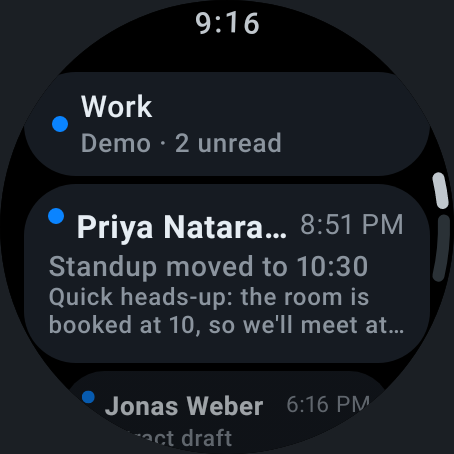
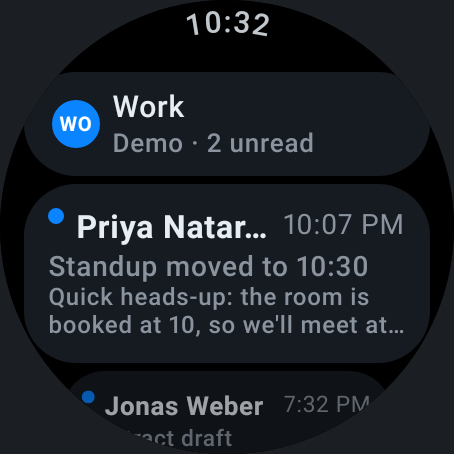
docs: describe replies, swipe actions, views, and privacy on the watch
Update the README feature table, getting-started steps, screenshots, and
roadmap, and RFC 0010's protocol, watch app, privacy, and open questions.

Claude-Session: https://claude.ai/code/session_019FG2bvKoSv16cscKJj6KsV

diff --git a/README.md b/README.md
@@ -6,7 +6,7 @@
 
 **A Wear OS companion for Thunderbird for Android.**
 
-ThunderWren brings your Thunderbird inbox to smartwatches running Wear OS 3+. Thunderbird on your phone keeps doing the mail syncing. The watch shows your inboxes, lets you triage messages with a tap, and hands off to the phone for reading in full or replying. The watch never stores your passwords or connects to a mail server.
+ThunderWren brings your Thunderbird inbox to smartwatches running Wear OS 3+. Thunderbird on your phone keeps doing the mail syncing. The watch shows your inboxes, lets you triage messages with a tap or a swipe, and sends quick replies through the phone. For anything longer it hands off to the phone. The watch never stores your passwords or connects to a mail server.
 
 It lives in a fork of the Thunderbird for Android repository. The design is proposed upstream in [RFC 0010](docs/engineering/rfcs/0010-wear-os-companion.md).
 
@@ -16,9 +16,14 @@ It lives in a fork of the Thunderbird for Android repository. The design is prop
 > **Just curious?** You don't need a phone. Install only the watch app and tap **Try the demo**.
 
 <p align="center">
-  <img src="images/thunderwren/screenshots/2-inbox-all.png" width="200" alt="Inbox showing All inboxes with unread messages">
-  <img src="images/thunderwren/screenshots/3-mailbox-picker.png" width="200" alt="Mailbox picker with All inboxes, Work, and Personal">
-  <img src="images/thunderwren/screenshots/5-message.png" width="200" alt="A message opened on the watch">
+  <img src="images/thunderwren/screenshots/2-inbox-all.png" width="200" alt="All inboxes, with account monograms on each message">
+  <img src="images/thunderwren/screenshots/9-swipe.png" width="200" alt="A message swiped to the left, showing Delete and Archive">
+  <img src="images/thunderwren/screenshots/5-message.png" width="200" alt="A message opened on the watch, with its account">
+</p>
+<p align="center">
+  <img src="images/thunderwren/screenshots/7-reply.png" width="200" alt="Reply screen with Speak or type and ready-made replies">
+  <img src="images/thunderwren/screenshots/8-reply-review.png" width="200" alt="Reviewing a reply before sending it">
+  <img src="images/thunderwren/screenshots/6-inbox-starred.png" width="200" alt="The Starred view of all inboxes">
 </p>
 <p align="center"><em>The demo mailbox, rendered from the real watch UI.</em></p>
 
@@ -29,17 +34,21 @@ It lives in a fork of the Thunderbird for Android repository. The design is prop
 | Area | Status | Notes |
 |---|---|---|
 | Inbox on the watch | ✅ | The newest 25 messages with sender, subject, preview, date, and unread/starred state. |
-| Unified inbox or one account | ✅ | Tap the mailbox name at the top of the inbox to switch between "All inboxes" and each account. The watch remembers your choice. |
+| All inboxes, Unread, Starred, or one account | ✅ | Tap the mailbox name at the top of the inbox to switch. "Unread" and "Starred" filter all inboxes. The watch remembers your choice. |
+| Account monograms | ✅ | In mixed views, each message shows its account's monogram and color, as in Thunderbird. |
+| Swipe to archive or delete | ✅ | Swipe a message to the left. A full swipe archives it. Screen readers get the same actions. |
 | Mark read/unread, star, archive, delete | ✅ | Sent to the phone, which applies them like the phone app does. Opening a message marks it as read. |
-| Open on phone | ✅ | Opens the message in Thunderbird on the phone, for reading in full and replying. |
-| Unread Tile and complication | ✅ | Show the unified inbox's unread count and update when the phone publishes new data. |
+| Mark all as read | ✅ | At the end of any mailbox, after a confirmation. |
+| Reply from the watch | ✅ | Speak, type, or pick a ready-made reply, review it, and send. Thunderbird on the phone sends it from the right account, with your signature and quoting settings, and marks the message as answered. Encrypted messages are answered on the phone. |
+| Open on phone | ✅ | Opens the message in Thunderbird on the phone, for reading in full. |
+| Tile | ✅ | Shows the unread count and the newest unread messages. Tap one to open it. |
+| Complication | ✅ | Shows the unread count on your watch face. |
+| Privacy | ✅ | The Tile and complication follow Thunderbird's **Lock Screen Notifications** setting (senders and subjects, senders only, count only, or nothing). The default is count only. |
 | Encrypted messages | ✅ | Shown as encrypted, with a prompt to read them on the phone. |
 | Works briefly offline | ✅ | The watch keeps the last data the phone sent. |
-| Demo mailbox | ✅ | **Try the demo** on the watch shows a sample mailbox with working actions, no phone needed. Real data from Thunderbird on the phone replaces it automatically. |
-| Phone notifications on the watch | ✅ Improved | Thunderbird's phone notifications now offer **Star** on the watch, and their actions follow your notification action order. |
-| Replying from the watch | ⬜ Not started | Use "Open on phone" for now. |
+| Demo mailbox | ✅ | **Try the demo** on the watch shows a sample mailbox where everything above works, no phone needed. Real data from Thunderbird on the phone replaces it automatically. |
+| Phone notifications on the watch | ✅ Improved | Thunderbird's notifications offer **Reply** (voice, keyboard, or ready-made replies, sent by the phone) and **Star** on the watch, and their actions follow your notification action order. |
 | Folders other than the inbox | ⬜ Not started | |
-| Watch notifications | ⬜ Not started | Thunderbird's phone notifications are still bridged to the watch by Wear OS as usual. |
 | Standalone mode (no phone) | ⬜ Not planned yet | See the RFC for why the phone does the syncing. |
 
 ---
@@ -50,15 +59,16 @@ It lives in a fork of the Thunderbird for Android repository. The design is prop
  Phone: Thunderbird (full/Play build)             Watch: ThunderWren
  ┌──────────────────────────────────┐             ┌──────────────────────────┐
  │ :feature:wear:companion:internal │─ mailboxes ▶│ Inbox, mailbox picker,   │
- │  • publishes each inbox          │─ inboxes ──▶│ message screen, Tile,    │
- │  • applies watch actions         │◀─ requests ─│ complication             │
+ │  • publishes each mailbox        │─ inboxes ──▶│ message and reply        │
+ │  • applies watch actions         │◀─ requests ─│ screens, Tile,           │
+ │  • sends replies                 │             │ complication             │
  │  • "open on phone" entry point   │             │                          │
  └──────────────────────────────────┘             └──────────────────────────┘
                  both use :feature:wear:companion:api (protocol)
 ```
 
 * **`:feature:wear:companion:api`**: the shared protocol, covering Data Layer paths, message and mailbox models, and the JSON codec.
-* **`:feature:wear:companion:internal`**: the phone side, included in Thunderbird's `full` (Play) flavor. It publishes the mailbox list and one inbox snapshot per mailbox over the Wearable Data Layer. It also applies actions through `MessagingController` and opens messages on request.
+* **`:feature:wear:companion:internal`**: the phone side, included in Thunderbird's `full` (Play) flavor. It publishes the mailbox list and one snapshot per mailbox over the Wearable Data Layer. It also applies actions through `MessagingController`, sends replies with `QuickReplySender` (in `legacy:core`, shared with the notification Reply action), and opens messages on request.
 * **`:feature:wear:companion:noop`**: included in the `foss` (F-Droid) flavor instead, because the Data Layer needs Google Play Services.
 * **`:app-thunderwren`**: the Wear OS app. It depends only on the protocol module.
 
@@ -77,7 +87,7 @@ It lives in a fork of the Thunderbird for Android repository. The design is prop
 
 1. Create and start a *Wear OS Small Round* emulator (API 30 or newer) in Device Manager.
 2. Select the **`app-thunderwren`** run configuration and run it on the watch.
-3. Tap **Try the demo**. You get "All inboxes" plus a Work and a Personal account with sample messages. Open, star, mark unread, archive, and delete them, switch mailboxes, and add the Tile and complication. Everything stays on the watch.
+3. Tap **Try the demo**. You get "All inboxes", "Unread", "Starred", and a Work and a Personal account with sample messages. Open, star, reply to, swipe away, and mark them as read, switch mailboxes, and add the Tile and complication. Nothing is sent anywhere.
 
 **Exit demo** at the bottom of the inbox returns to the "Connect your phone" screen. If Thunderbird on a paired phone connects, its real inbox replaces the demo automatically.
 
@@ -110,7 +120,7 @@ Or from the command line, with both emulators running:
 
 ### Try the Tile and complication
 
-* **Tile**: swipe to the tiles carousel on the watch and add **"Unread Emails"**.
+* **Tile**: swipe to the tiles carousel on the watch and add **"Unread Emails"**. To see senders and subjects on it with real mail, set **Settings → General settings → Notifications → Lock Screen Notifications** in Thunderbird on the phone to show them. The demo always shows them.
 * **Complication**: long-press the watch face → *Customize* → pick a complication slot → **ThunderWren / Unread Count**.
 
 ### Troubleshooting
@@ -130,9 +140,10 @@ Or from the command line, with both emulators running:
 - [x] Demo mailbox for trying the watch app without a phone.
 - [x] Star and custom action order for Thunderbird's phone notifications on the watch.
 - [x] Translatable strings, screen reader labels, and a CI build job.
+- [x] Reply from the watch (voice, keyboard, or ready-made replies, sent by the phone), also from notifications.
+- [x] Respect Thunderbird's notification privacy settings on the Tile and complication.
+- [x] Swipe to archive or delete, Unread and Starred views, mark all as read, account monograms, and a richer Tile.
 - [ ] Verify on a real phone and watch, then fix what that turns up.
-- [ ] Reply from the watch (voice or canned replies, sent by the phone).
-- [ ] Respect Thunderbird's notification privacy settings in what the watch shows.
 - [ ] Present on [thunderbird/thunderbird-android#6969](https://github.com/thunderbird/thunderbird-android/issues/6969), the open Wear OS request.
 
 For architectural guidelines, see [`docs/architecture/`](docs/architecture/README.md) and [`AGENTS.md`](AGENTS.md). The original upstream README is preserved in [`README.upstream.md`](README.upstream.md).

diff --git a/docs/engineering/rfcs/0010-wear-os-companion.md b/docs/engineering/rfcs/0010-wear-os-companion.md
@@ -7,8 +7,8 @@
 
 Add a Wear OS companion to Thunderbird for Android. The phone app keeps doing all mail syncing. It publishes a
 compact snapshot of the unified inbox to a paired watch over the Wearable Data Layer. The watch app shows that
-snapshot, sends simple actions back (mark read or unread, star, archive, delete), and can open a message on the phone
-for full reading and replying.
+snapshot, sends simple actions back (mark read or unread, star, archive, delete, mark all as read), sends short
+replies that the phone writes and sends, and can open a message on the phone for full reading.
 
 The watch never stores account credentials and never talks to a mail server.
 
@@ -48,27 +48,39 @@ can ignore data it doesn't understand.
 - **Capabilities**: The phone advertises `thunderbird_wear_companion` and the watch advertises `thunderwren_watch`. Each
   side uses the other's capability to find a peer and to skip work when none is connected.
 - **Mailboxes**: This is a `DataItem` at `/thunderwren/v1/mailboxes` holding `WearMailboxList`. It lists the unified
-  inbox first, then each account's inbox, with the account name, email address, color, and unread count.
+  inbox and its "Unread" and "Starred" views first, then each account's inbox, with the account name, email address,
+  color, monogram, and unread count. It also carries the glance visibility (see Privacy below).
 - **Inbox snapshots**: There is one `DataItem` per mailbox, at `/thunderwren/v1/inbox/<mailbox>`, holding
-  `WearInboxSnapshot`. `<mailbox>` is `unified` or the account UUID. Each snapshot contains the newest 25 messages of
-  that inbox. Each message has an ID, sender, subject, preview, date, read/starred flags, attachment and encryption
-  indicators, and the account color. Separate items keep each one well under the Data Layer's 100 KB limit. They also
-  make switching mailboxes on the watch instant, even while it is disconnected.
+  `WearInboxSnapshot`. `<mailbox>` is `unified`, `unread`, `starred`, or the account UUID. Each snapshot contains the
+  newest 25 messages of that mailbox. Each message has an ID, sender, subject, preview, date, read/starred flags,
+  attachment and encryption indicators, and its account's ID and color. Separate items keep each one well under the
+  Data Layer's 100 KB limit. They also make switching mailboxes on the watch instant, even while it is disconnected.
 - **Publishing**: The phone republishes (debounced) when the message list changes and a watch is paired. It deletes the
   items of accounts that no longer exist. The Data Layer keeps the last published items on the watch.
 - **Requests**: The watch sends `MessageClient.sendRequest` to `/thunderwren/v1/request` with a `WearRequest`:
-  `Refresh`, or `PerformAction(messageId, action)`. The phone answers with a `WearResponse`. An action updates the
-  local store through `MessagingController`, and the resulting message-list change republishes the snapshots.
+  `Refresh`, `PerformAction(messageId, action)`, `MarkAllRead(mailboxId)`, or `Reply(messageId, text)`. The phone
+  answers with a `WearResponse`. Actions update the local store through `MessagingController`, and the resulting
+  message-list change republishes the snapshots. A phone that doesn't know a request answers `UNSUPPORTED_REQUEST`,
+  which the watch explains as "update Thunderbird on your phone".
+- **Replies**: `QuickReplySender` in `legacy:core` builds the reply the way the compose screen would: to the sender or
+  Reply-To address, from the identity the message was sent to, with the account's quoting, signature, Bcc, and read
+  receipt settings, threaded with `In-Reply-To` and `References`. It puts the reply in the Outbox and marks the
+  original as answered. Replies are plain text. Encrypted messages are refused, because the reply would go out
+  unencrypted; the watch offers "open on phone" for them instead. Nothing is sent without a review step on the watch.
 - **Message IDs**: `MessageReference.toIdentityString()` is used as-is. The watch treats it as opaque.
 - **Open on phone**: The watch calls `RemoteActivityHelper` with `thunderwren://open?message=<id>`. A small exported
   trampoline activity in `internal` validates the ID and opens the message in the phone app.
 
 ### Watch app
 
-- Uses Compose for Wear OS Material 3. It has an inbox, a mailbox picker (the unified inbox or a single account), a
-  message screen with actions, and an "open on phone" action. The selected mailbox is remembered on the watch.
-- The Tile and the complication show the unified inbox's unread count from the cached mailbox list. A `WearableListenerService` on the
-  watch refreshes them when the snapshot changes, even when the app isn't open.
+- Uses Compose for Wear OS Material 3. It has an inbox, a mailbox picker (the unified inbox, "Unread", "Starred", or a
+  single account), a message screen with actions, a reply screen (voice, keyboard, or ready-made replies, then a
+  review step), and an "open on phone" action. Messages can be swiped to archive or delete them, and a mailbox can be
+  marked as read after a confirmation. Account monograms show which account a message belongs to. The selected
+  mailbox is remembered on the watch.
+- The Tile shows the unified inbox's unread count and the newest unread messages, which open when tapped. The
+  complication shows the unread count. A `WearableListenerService` on the watch refreshes them when the phone
+  publishes, even when the app isn't open.
 - When no phone with Thunderbird is reachable, the watch explains that instead of showing placeholder data. It also
   offers a clearly labeled demo mailbox that lives only on the watch, so people can try the app without a phone. Real
   data from a phone always replaces the demo.
@@ -80,7 +92,9 @@ can ignore data it doesn't understand.
   A standalone mode could still be added later behind the same watch UI, since the UI only depends on the snapshot
   models.
 - **Rely on bridged phone notifications only**: This needs no new code, but it only covers new mail. It doesn't give
-  users an inbox to browse, and the actions available on bridged notifications are limited.
+  users an inbox to browse, and the actions available on bridged notifications are limited. The companion still
+  improves them: their Wear actions follow the user's notification action order, include Star, and the Reply action
+  takes a voice, keyboard, or ready-made reply that `QuickReplySender` sends.
 - **Custom Bluetooth or network transport**: This avoids Google Play Services but duplicates what the Data Layer
   already provides: pairing, encryption, offline caching, and delivery over the cloud when the devices are apart.
 
@@ -91,8 +105,10 @@ can ignore data it doesn't understand.
   the phone.
 - **Privacy**: Snapshots contain sender names, subjects, and previews. The Data Layer encrypts traffic between paired
   devices, and data stays within the user's Google account. The snapshot is capped in size and has no message bodies.
-  Its contents should respect Thunderbird's existing notification privacy settings (see Open Questions). The mailbox
-  list includes account email addresses.
+  The mailbox list includes account email addresses. The Tile and complication can be seen by people nearby, like a
+  phone's lock screen, so they follow Thunderbird's "lock screen notifications" setting, which the phone publishes as
+  the glance visibility: senders and subjects, senders only, the unread count only (the default), or nothing. Inside
+  the app, which the wearer opens on purpose, everything is shown, as in Thunderbird on an unlocked phone.
 - **Same app identity**: The Data Layer only connects apps with the same application ID and signing key. The watch
   app must therefore use Thunderbird's application ID for each build type (for example `net.thunderbird.android` and
   `net.thunderbird.android.debug`) and be signed with the same key. That is also how Play publishes a Wear OS app
@@ -103,13 +119,14 @@ can ignore data it doesn't understand.
 
 ## Open Questions
 
-1. Should the snapshot respect the "lock screen notification visibility" privacy setting, for example by hiding
-   previews?
-2. Should replies from the watch (voice or canned responses) be sent by the phone in a later version, or stay
-   "open on phone"?
-3. Where should the Wear app live long term: this repository (as `:app-thunderwren` or a renamed module) or a
+1. Where should the Wear app live long term: this repository (as `:app-thunderwren` or a renamed module) or a
    separate one?
-4. Naming: "ThunderWren" is a working title. Would the Thunderbird brand be allowed on the watch app?
+2. Naming: "ThunderWren" is a working title. Would the Thunderbird brand be allowed on the watch app?
+3. Should quick replies (from the watch and from Wear notifications) quote the original message? They currently
+   follow the account's "quote original message when replying" setting, like the compose screen.
+
+Answered in this proposal: the Tile and complication follow the lock screen notification setting (see Privacy), and
+replies from the watch are sent by the phone, as plain text, never for encrypted messages.
 
 ## Outcome
 
